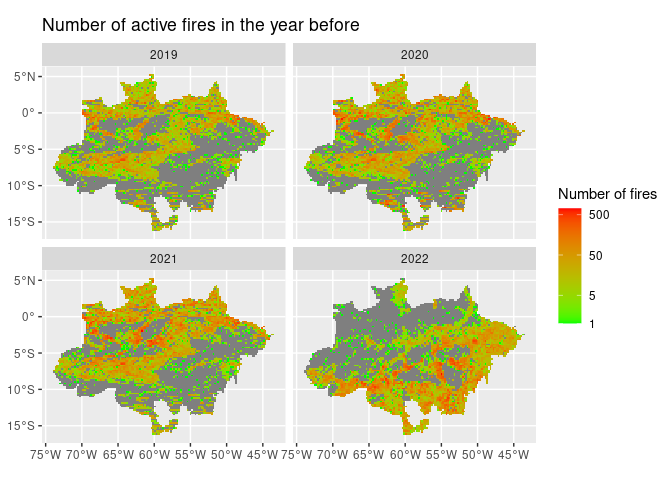
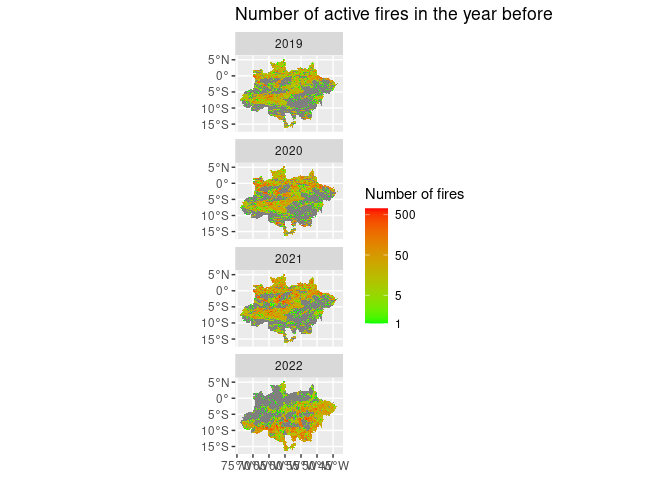
README updated!

diff --git a/README.md b/README.md
@@ -10,9 +10,10 @@ This package introduces a method for prioritizing deforestation hotspots
 to support law enforcement actions in the Brazilian Amazon, as describen
 in the paper entitled: *Science-based planning can support law
 enforcement actions to curb deforestation in the Brazilian Amazon* by
-Mataveli et at, available at <https://doi.org/10.1111/conl.12908>
+Mataveli et at. (2022) \[1\], available at
+<https://doi.org/10.1111/conl.12908>
 
-This is the abstract of the aforementioned paper:
+This is the abstract of the aforementioned paper \[1\]:
 
 While Brazil publicly committed to reduce deforestation in Amazonia at
 the 26th Conference of the Parties (COP26), the Brazilian parliament is
@@ -35,6 +36,11 @@ Amazônia 21/22.” Optimizing the detection of priority areas for curbing
 deforestation, as proposed here, is the first step to reducing
 deforestation rates and comply with the Brazilian legal commitment of
 3925 km2 year−1.
+
+\[1\] Mataveli, G., de Oliveira, G., Chaves, M. E., Dalagnol, R.,
+Wagner, F. H., Ipia, A. H., … & Aragão, L. E. (2022). Science‐based
+planning can support law enforcement actions to curb deforestation in
+the Brazilian Amazon. Conservation Letters, e12908.
 
 ## Installation
 
@@ -155,7 +161,7 @@ def_sf %>%
                         breaks = c(0.1, 1, 10, 100),
                         low = "green",
                         high = "red") +
-    facet_wrap(~ref_year) +
+    facet_wrap(~ref_year, ncol = 1) +
     ggtitle("Deforestation")
 #> Warning: Transformation introduced infinite values in discrete y-axis
 ```
@@ -172,7 +178,7 @@ def_sf %>%
                         breaks = c(0.01, 0.10, 1, 10, 100),
                         low = "green",
                         high = "red") +
-    facet_wrap(~ref_year) +
+    facet_wrap(~ref_year, ncol = 1) +
     ggtitle("Deforestation in the year before")
 #> Warning: Transformation introduced infinite values in discrete y-axis
 ```
@@ -189,7 +195,7 @@ def_sf %>%
                         breaks = c(0.01, 0.10, 1, 10, 100),
                         low = "green",
                         high = "red") +
-    facet_wrap(~ref_year) +
+    facet_wrap(~ref_year, ncol = 1) +
     ggtitle("Deforestation 2 years before")
 #> Warning: Transformation introduced infinite values in discrete y-axis
 ```
@@ -206,7 +212,7 @@ def_sf %>%
                         breaks = c(0.01, 0.10, 1, 10, 100),
                         low = "green",
                         high = "red") +
-    facet_wrap(~ref_year) +
+    facet_wrap(~ref_year, ncol = 1) +
     ggtitle("Deforestation 4 years before")
 #> Warning: Transformation introduced infinite values in discrete y-axis
 ```
@@ -224,7 +230,7 @@ def_sf %>%
                         breaks = c(25, 50, 100, 250, 500, 900),
                         low = "green",
                         high = "red") +
-    facet_wrap(~ref_year) +
+    facet_wrap(~ref_year, ncol = 1) +
     ggtitle(paste("Distance to the closest grid centroid with more than 1%",
                   "deforestation in year before"))
 ```
@@ -242,7 +248,7 @@ def_sf %>%
                         breaks = c(25, 50, 100, 250, 500, 1000),
                         low = "green",
                         high = "red") +
-    facet_wrap(~ref_year) +
+    facet_wrap(~ref_year, ncol = 1) +
     ggtitle(paste("Distance to the closest grid centroid with more than 2%",
                   "deforestation in year before"))
 ```
@@ -259,7 +265,7 @@ def_sf %>%
                         breaks = c(1, 5, 50, 500),
                         low = "green",
                         high = "red") +
-    facet_wrap(~ref_year) +
+    facet_wrap(~ref_year, ncol = 1) +
     ggtitle("Number of active fires in the year before")
 #> Warning: Transformation introduced infinite values in discrete y-axis
 ```
